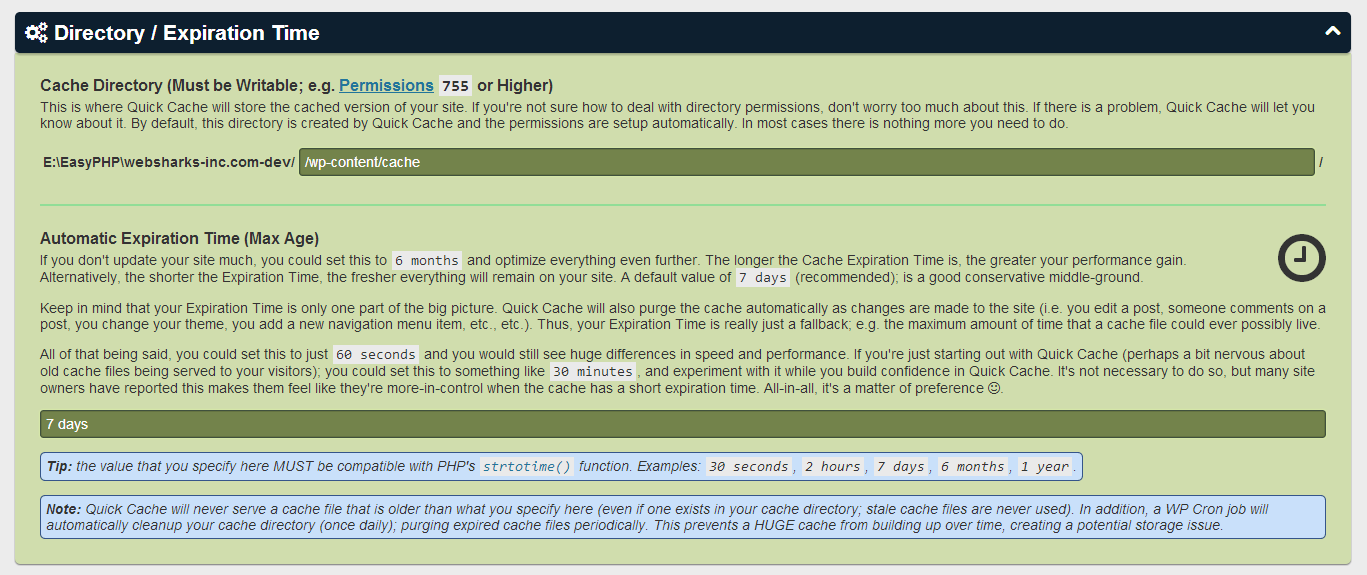
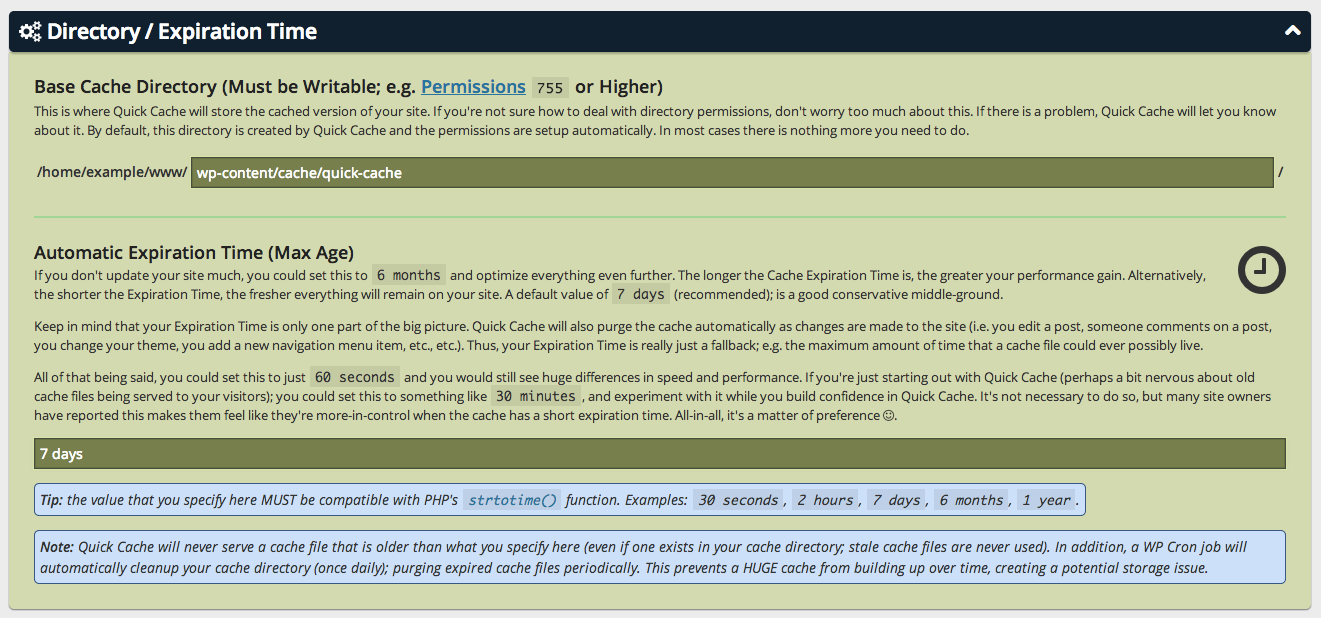
Releasing Quick Cache v140605

Changed region(s): [[0.0, 0.0, 0.9932, 1.0]]

diff --git a/quick-cache/quick-cache.inc.php b/quick-cache/quick-cache.inc.php
@@ -49,7 +49,7 @@ namespace quick_cache
 			 *
 			 * @var string Current version of the software.
 			 */
-			public $version = '140529';
+			public $version = '140605';
 
 			/**
 			 * Plugin text domain for translations.
@@ -101,7 +101,7 @@ namespace quick_cache
 			/**
 			 * Cache directory.
 			 *
-			 * @since 14xxxx Moving to a base directory.
+			 * @since 140605 Moving to a base directory.
 			 *
 			 * @var string Cache directory; relative to the configured base directory.
 			 */
@@ -632,7 +632,7 @@ namespace quick_cache
 			/**
 			 * Enqueue an administrative notice.
 			 *
-			 * @since 14xxxx Adding enqueue notice/error methods.
+			 * @since 140605 Adding enqueue notice/error methods.
 			 *
 			 * @param string  $notice HTML markup containing the notice itself.
 			 *
@@ -703,7 +703,7 @@ namespace quick_cache
 			/**
 			 * Enqueue an administrative error.
 			 *
-			 * @since 14xxxx Adding enqueue notice/error methods.
+			 * @since 140605 Adding enqueue notice/error methods.
 			 *
 			 * @param string  $error HTML markup containing the error itself.
 			 *
@@ -1064,7 +1064,7 @@ namespace quick_cache
 			 *
 			 * @attaches-to `transition_post_status` hook.
 			 *
-			 * @since 14xxxx First documented version.
+			 * @since 140605 First documented version.
 			 *
 			 * @param string   $new_status New post status.
 			 * @param string   $old_status Old post status.
@@ -1225,7 +1225,7 @@ namespace quick_cache
 			 *
 			 * @attaches-to `post_updated` hook.
 			 *
-			 * @since 14xxxx First documented version.
+			 * @since 140605 First documented version.
 			 *
 			 * @param integer  $post_ID A WordPress post ID.
 			 * @param \WP_Post $post_after WP_Post object following the update.
@@ -1325,7 +1325,7 @@ namespace quick_cache
 			 * @attaches-to `added_term_relationship` hook.
 			 * @attaches-to `delete_term_relationships` hook.
 			 *
-			 * @since 14XXXX First documented version.
+			 * @since 140605 First documented version.
 			 *
 			 * @param integer $id A WordPress post ID.
 			 * @param bool    $force Defaults to a `FALSE` value.
@@ -1507,7 +1507,7 @@ namespace quick_cache
 			 * This constructs an absolute server directory path (no trailing slashes);
 			 *    which is always nested into {@link \ABSPATH} and the configured `base_dir` option value.
 			 *
-			 * @since 14xxxx Moving to a base directory structure.
+			 * @since 140605 Moving to a base directory structure.
 			 *
 			 * @param string $rel_dir_file A sub-directory or file; relative location please.
 			 *
@@ -1533,7 +1533,7 @@ namespace quick_cache
 			 * This constructs a relative/base directory path (no leading/trailing slashes).
 			 *    Always relative to {@link \ABSPATH}. Depends on the configured `base_dir` option value.
 			 *
-			 * @since 14xxxx Moving to a base directory structure.
+			 * @since 140605 Moving to a base directory structure.
 			 *
 			 * @param string $rel_dir_file A sub-directory or file; relative location please.
 			 *
@@ -2124,7 +2124,7 @@ namespace quick_cache
 			/**
 			 * Produces a token based on the current site's base directory.
 			 *
-			 * @since 14xxxx First documented version.
+			 * @since 140605 First documented version.
 			 *
 			 * @param boolean $dashify Optional, defaults to a `FALSE` value.
 			 *    If `TRUE`, the token is returned with dashes in place of `[^a-z0-9\/]`.

diff --git a/quick-cache/includes/advanced-cache.tpl.php b/quick-cache/includes/advanced-cache.tpl.php
@@ -139,7 +139,7 @@ namespace quick_cache
 		/**
 		 * Flagged as `TRUE` if QC advanced cache is active & running.
 		 *
-		 * @since 14xxxx Improving output buffers
+		 * @since 140605 Improving output buffers
 		 *
 		 * @var boolean `TRUE` if QC advanced cache is active & running.
 		 */
@@ -239,7 +239,7 @@ namespace quick_cache
 		/**
 		 * An array of debug info.
 		 *
-		 * @since 14xxxx Improve output buffering.
+		 * @since 140605 Improve output buffering.
 		 *
 		 * @var array An array of debug info; i.e. `reason_code` and `reason` (optional).
 		 */
@@ -270,7 +270,7 @@ namespace quick_cache
 		/**
 		 * Is the current request a WordPress content type?
 		 *
-		 * @since 14xxxx Improving debug notes display.
+		 * @since 140605 Improving debug notes display.
 		 *
 		 * @var boolean `TRUE` if is a WP content type.
 		 *
@@ -570,7 +570,7 @@ namespace quick_cache
 		/**
 		 * No-cache because we detected an early buffer termination.
 		 *
-		 * @since 14xxxx Improving output buffer.
+		 * @since 140605 Improving output buffer.
 		 *
 		 * @var string A unique string identifier in the set of `NC_DEBUG_` constants.
 		 */
@@ -620,7 +620,7 @@ namespace quick_cache
 		/**
 		 * Registers a shutdown flag.
 		 *
-		 * @since 14xxxx Improving output buffer.
+		 * @since 140605 Improving output buffer.
 		 *
 		 * @note In `/wp-settings.php`, Quick Cache is loaded before WP registers its own shutdown function.
 		 * Therefore, this flag is set before {@link shutdown_action_hook()} fires, and thus before {@link wp_ob_end_flush_all()}.
@@ -963,7 +963,7 @@ namespace quick_cache
 		/**
 		 * Echoes `NC_DEBUG_` info in the WordPress `shutdown` phase (if applicable).
 		 *
-		 * @since 14xxxx Improving debug info output phase.
+		 * @since 140605 Improving debug info output phase.
 		 *
 		 * @attaches-to `shutdown` hook in WordPress w/ a late priority.
 		 */
@@ -1289,7 +1289,7 @@ namespace quick_cache
 		/**
 		 * Produces a token based on the current site's base directory.
 		 *
-		 * @since 14xxxx First documented version.
+		 * @since 140605 First documented version.
 		 *
 		 * @param boolean $dashify Optional, defaults to a `FALSE` value.
 		 *    If `TRUE`, the token is returned with dashes in place of `[^a-z0-9\/]`.

diff --git a/quick-cache/quick-cache.php b/quick-cache/quick-cache.php
@@ -1,6 +1,6 @@
 <?php
 /*
-Version: 140529
+Version: 140605
 Text Domain: quick-cache
 Plugin Name: Quick Cache
 Network: true
